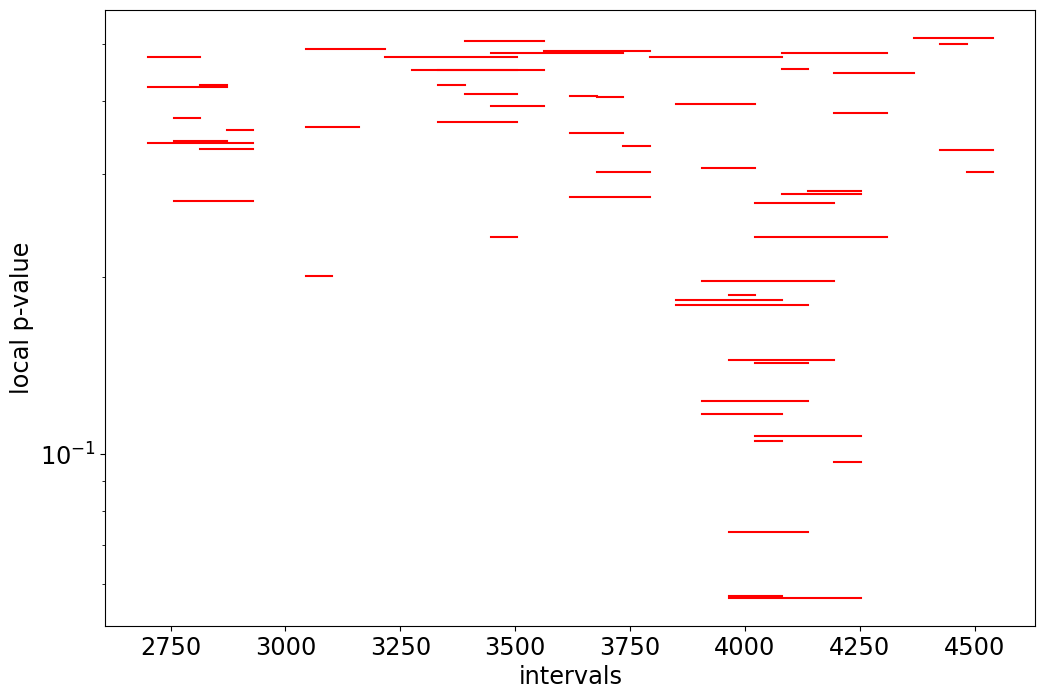
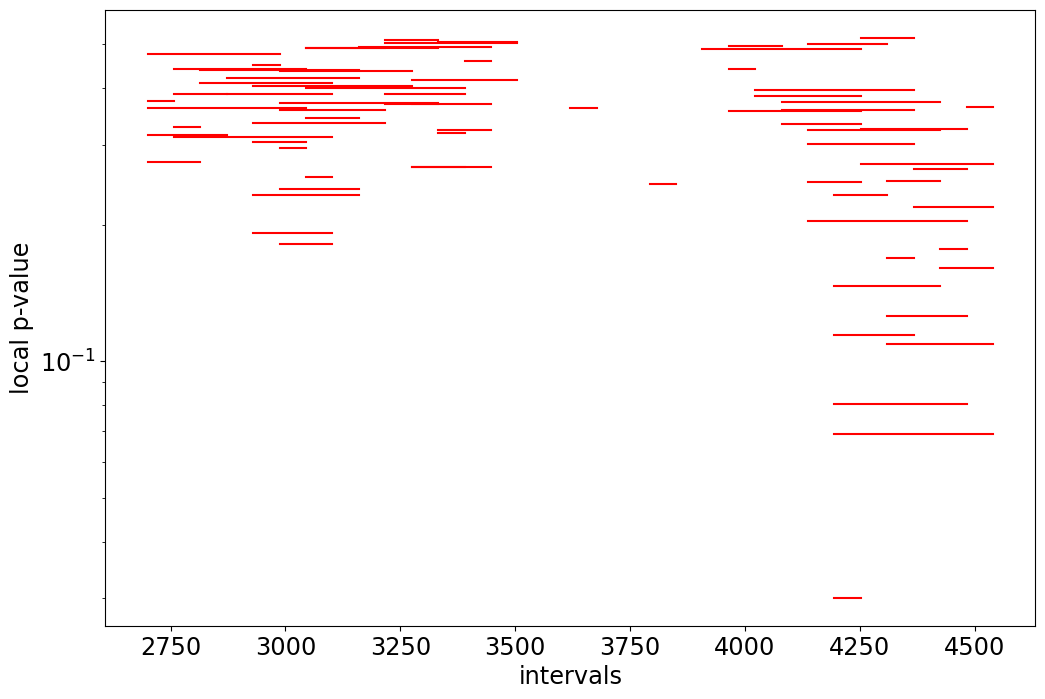
Applying BumpHunter with sig1 insertion and percentage 0.005

diff --git a/apply.py b/apply.py
@@ -119,7 +119,7 @@ with torch.no_grad(): # no need to compute gradients here
 loss_sample = pd.DataFrame(loss(data, prediction).numpy(), columns=selection).mean(axis=1)
 
 # Do the selection at Nth percentile
-percentile = 98
+percentile = 85
 cut = np.percentile(loss_sample, percentile)
 mjj_cut = mjj[loss_sample > cut]
 print(f'    post cut stat : {mjj_cut.size}')
@@ -139,7 +139,7 @@ print(f'    new S/B : {100 * sbr:.2f}%')
 BH = BumpHunter1D(
     rang=scope,
     width_min = 1,
-    width_max = 5,
+    width_max = 6,
     width_step = 1,
     scan_step = 1,
     npe = 40000,
